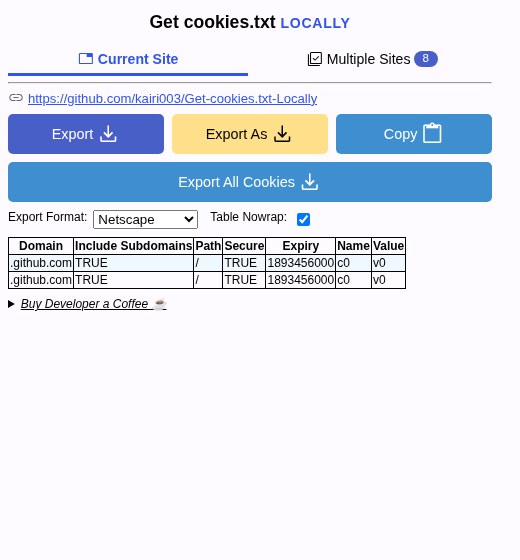
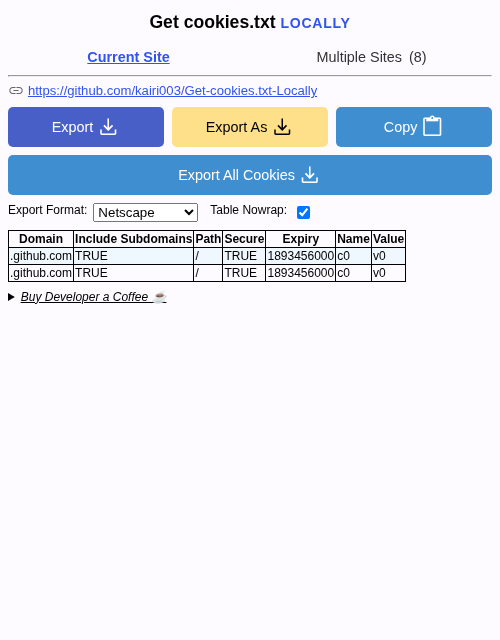
style: align the multi-site panel with the original popup wording and look
- plain underlined tabs instead of icon pills and badges
- site list uses a black table border with aliceblue stripes
- square search field and plain utility buttons
- site counts and the current marker rendered as plain text
- build script keeps the package version unless a matching tag is at HEAD
- bump version to 0.8.2

Changed region(s): [[0.0, 0.0, 0.99, 0.5768]]

diff --git a/src/popup-batch.css b/src/popup-batch.css
@@ -1,4 +1,4 @@
-/* Multi-site batch export UI */
+/* Multi-site batch export UI — styled to match the upstream popup */
 
 .panel {
   display: grid;
@@ -11,80 +11,60 @@
 
 .tab-bar {
   display: flex;
-  gap: 4px;
+  gap: 2px;
+  margin-top: 4px;
 }
 
 .tab {
   flex: 1;
-  display: flex;
-  align-items: center;
-  justify-content: center;
-  gap: 0.25em;
-  padding: 6px 4px;
+  padding: 4px 2px;
   border: none;
-  border-bottom: 3px solid transparent;
-  border-radius: 6px 6px 0 0;
-  outline: none;
   background: transparent;
-  color: inherit;
+  color: #333;
   font: inherit;
-  font-size: 0.88rem;
+  font-size: 0.9rem;
   cursor: pointer;
 }
 
-.tab:focus-visible {
-  box-shadow: 0 0 0 2px rgba(72, 95, 199, 0.45);
+.tab:hover {
+  text-decoration: underline;
 }
 
-.tab:hover {
-  background: rgba(72, 95, 199, 0.08);
+.tab:focus:not(:focus-visible) {
+  outline: none;
 }
 
 .tab.active {
   color: #3153ee;
-  border-bottom-color: #3153ee;
   font-weight: bold;
-}
-
-.tab .material-symbols-outlined {
-  font-size: 1.05rem;
+  text-decoration: underline;
 }
 
 .tab-badge {
-  min-width: 1.35em;
-  padding: 0 4px;
-  border-radius: 999px;
-  background: #485fc7;
-  color: #fff;
-  font-size: 0.72rem;
-  line-height: 1.35em;
-  text-align: center;
+  margin-left: 0.2em;
+  color: inherit;
+  font-weight: normal;
 }
 
 .batch-toolbar {
   display: flex;
   align-items: center;
-  gap: 6px;
+  gap: 4px;
 }
 
 .site-search {
   flex: 1;
   display: flex;
   align-items: center;
-  gap: 4px;
-  padding: 3px 6px;
-  border: 1px solid #c9c9c9;
-  border-radius: 6px;
+  padding: 2px 4px;
+  border: 1px solid #767676;
+  border-radius: 3px;
   background: #fff;
-}
-
-.site-search .material-symbols-outlined {
-  font-size: 1rem;
-  color: #666;
 }
 
 .site-search input {
   width: 100%;
+  padding: 0;
   border: none;
   outline: none;
   background: transparent;
@@ -92,49 +72,49 @@
 }
 
 .tool-btn {
-  padding: 4px 8px;
-  border: 1px solid #485fc7;
-  border-radius: 6px;
+  padding: 2px 6px;
+  border: 1px solid #767676;
+  border-radius: 3px;
   background: #fff;
-  color: #485fc7;
+  color: #000;
+  font: inherit;
   font-size: 0.8rem;
   cursor: pointer;
 }
 
 .tool-btn:hover {
-  background: #485fc7;
-  color: #fff;
+  background: aliceblue;
 }
 
 .selection-summary {
   display: flex;
   justify-content: space-between;
   gap: 8px;
-  color: #555;
+  color: #333;
   font-size: 0.8rem;
 }
 
 .site-list {
   max-height: 220px;
   overflow-y: auto;
-  border: 1px solid #ddd;
-  border-radius: 6px;
+  border: 1px solid #000;
   background: #fff;
 }
 
 .site-empty {
   margin: 0;
-  padding: 14px 10px;
-  color: #888;
+  padding: 12px 8px;
+  color: #666;
   text-align: center;
 }
 
 .site-item {
   display: flex;
   align-items: center;
-  gap: 8px;
-  padding: 5px 8px;
-  border-bottom: 1px solid #eee;
+  gap: 6px;
+  padding: 3px 5px;
+  border-bottom: 1px solid #000;
+  font-size: 0.8rem;
   cursor: pointer;
 }
 
@@ -142,47 +122,43 @@
   border-bottom: none;
 }
 
+.site-item:nth-of-type(2n + 1) {
+  background: aliceblue;
+}
+
 .site-item:hover {
-  background: #f2f6ff;
+  background: #e2efff;
 }
 
 .site-checkbox {
   margin: 0;
-  accent-color: #485fc7;
 }
 
 .site-name {
   flex: 1;
   overflow: hidden;
-  font-size: 0.85rem;
   text-overflow: ellipsis;
   white-space: nowrap;
 }
 
 .site-current {
   flex: none;
-  padding: 0 4px;
-  border-radius: 4px;
-  background: #e8edff;
   color: #3153ee;
-  font-size: 0.7rem;
+  font-size: 0.75rem;
 }
 
 .site-meta {
   flex: none;
   min-width: 1.8em;
-  padding: 0 6px;
-  border-radius: 999px;
-  background: #f1f1f1;
-  color: #666;
-  font-size: 0.75rem;
-  text-align: center;
+  color: #333;
+  font-size: 0.78rem;
+  text-align: right;
 }
 
 .batch-options {
   display: flex;
   flex-wrap: wrap;
-  gap: 0.6em 1em;
+  gap: 0.5em 1em;
 }
 
 .batch-actions {
@@ -192,9 +168,8 @@
 }
 
 .export-btn:disabled {
-  opacity: 0.55;
+  opacity: 0.6;
   cursor: not-allowed;
-  filter: grayscale(0.5);
 }
 
 .batch-status {
@@ -210,24 +185,22 @@
 
 .batch-hint {
   margin: 0;
-  color: #777;
-  font-size: 0.72rem;
+  color: #555;
+  font-size: 0.75rem;
   line-height: 1.35;
 }
 
 @media (prefers-color-scheme: dark) {
-  .tab:hover {
-    background: rgba(224, 146, 0, 0.12);
+  .tab {
+    color: #dfdfdf;
   }
 
   .tab.active {
     color: #e09200;
-    border-bottom-color: #e09200;
   }
 
   .tab-badge {
-    background: #e09200;
-    color: #222;
+    color: inherit;
   }
 
   .site-search {
@@ -239,19 +212,14 @@
     color: #dfdfdf;
   }
 
-  .site-search .material-symbols-outlined {
-    color: #aaa;
-  }
-
   .tool-btn {
-    border-color: #7f93ff;
-    background: transparent;
-    color: #9db0ff;
+    border-color: #555;
+    background: #3a3a3a;
+    color: #dfdfdf;
   }
 
   .tool-btn:hover {
-    background: #7f93ff;
-    color: #222;
+    background: #424242;
   }
 
   .selection-summary {
@@ -259,8 +227,8 @@
   }
 
   .site-list {
-    border-color: #444;
-    background: #2a2a2a;
+    border-color: #424242;
+    background: #1e1e1e;
   }
 
   .site-empty {
@@ -268,7 +236,11 @@
   }
 
   .site-item {
-    border-bottom-color: #3a3a3a;
+    border-bottom-color: #424242;
+  }
+
+  .site-item:nth-of-type(2n + 1) {
+    background: #2a2a2a;
   }
 
   .site-item:hover {
@@ -276,13 +248,11 @@
   }
 
   .site-current {
-    background: #4a3a1a;
     color: #e09200;
   }
 
   .site-meta {
-    background: #3a3a3a;
-    color: #bbb;
+    color: #ccc;
   }
 
   .batch-status {

diff --git a/scripts/build.js b/scripts/build.js
@@ -20,9 +20,11 @@ const options = program
  * works in a fresh copy of the repository without tags.
  */
 const getVersion = () => {
+  const pkg = JSON.parse(fs.readFileSync(path.join(ROOT, 'package.json')));
+  const version = `v${pkg.version}`;
   try {
-    // Prefer a tag pointing exactly at HEAD; "git describe" would append
-    // "-<n>-g<sha>" for commits after the last tag.
+    // Use the tag at HEAD only when it matches package.json; a tag left on an
+    // earlier commit must not override a freshly bumped version.
     const tags = execSync('git tag --points-at HEAD', {
       cwd: ROOT,
       stdio: 'pipe',
@@ -31,12 +33,11 @@ const getVersion = () => {
       .trim()
       .split('\n')
       .filter(Boolean);
-    if (tags.length) return tags[0];
+    if (tags.includes(version)) return version;
   } catch {
-    // git may be unavailable in a source archive, fall through to package.json
+    // git may be unavailable in a source archive
   }
-  const pkg = JSON.parse(fs.readFileSync(path.join(ROOT, 'package.json')));
-  return `v${pkg.version}`;
+  return version;
 };
 
 const build = async (version) => {

diff --git a/src/popup.html b/src/popup.html
@@ -24,7 +24,6 @@
           aria-controls="singlePanel"
           data-panel="singlePanel"
         >
-          <span class="material-symbols-outlined">tab</span>
           Current Site
         </button>
         <button
@@ -35,9 +34,8 @@
           aria-controls="multiPanel"
           data-panel="multiPanel"
         >
-          <span class="material-symbols-outlined">library_add_check</span>
           Multiple Sites
-          <span id="siteCountBadge" class="tab-badge">0</span>
+          <span id="siteCountBadge" class="tab-badge">(0)</span>
         </button>
       </nav>
       <hr />
@@ -140,7 +138,6 @@
       <section id="multiPanel" class="panel" role="tabpanel" hidden>
         <div class="batch-toolbar">
           <div class="site-search">
-            <span class="material-symbols-outlined">search</span>
             <input id="siteSearch" type="search" placeholder="Filter sites" autocomplete="off" />
           </div>
           <button id="selectAll" class="tool-btn" title="Select all visible sites">All</button>
